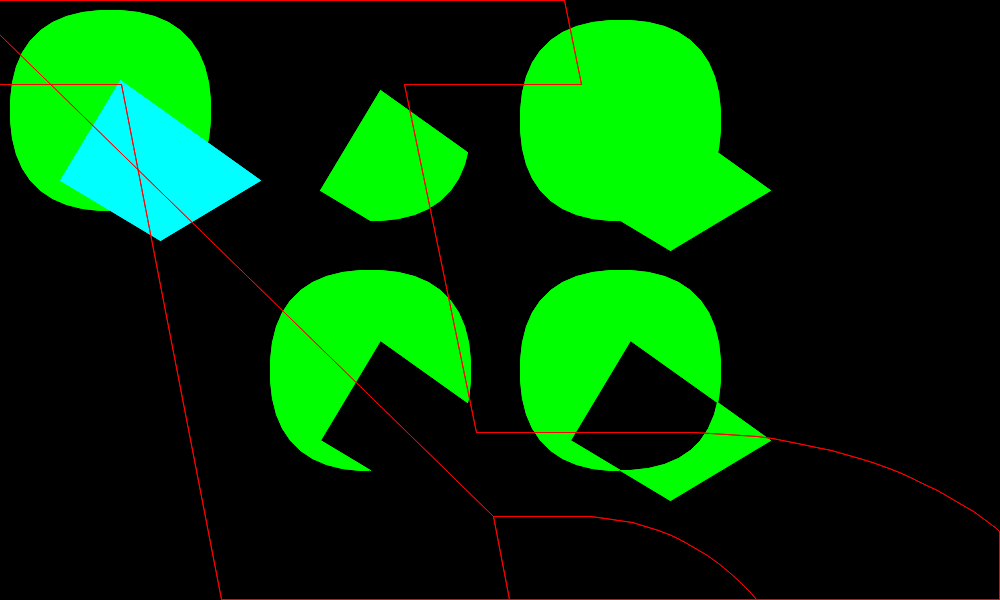
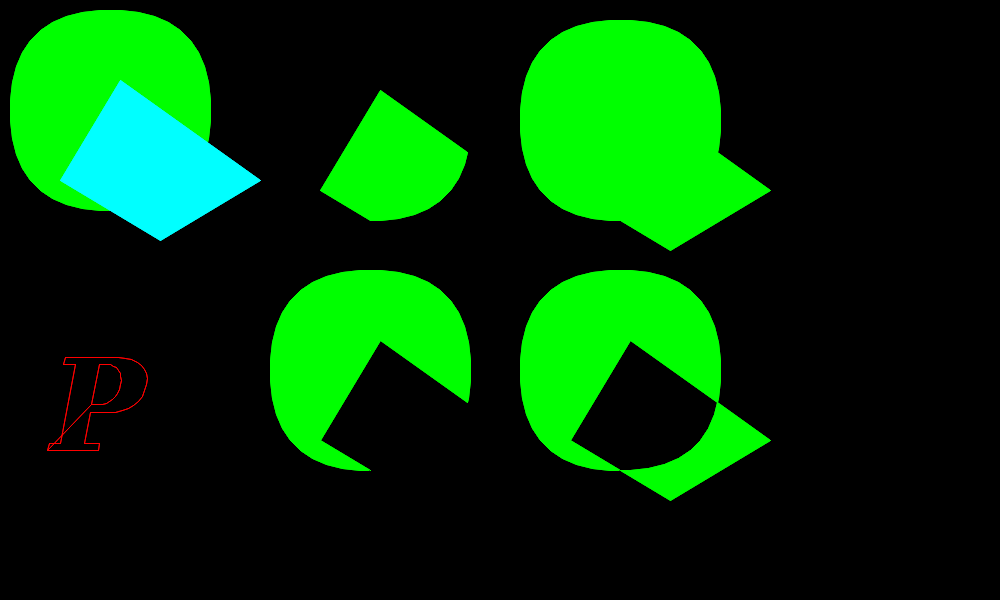
Experiment with character outline

diff --git a/src/Pt-Gfx/Path.cpp b/src/Pt-Gfx/Path.cpp
@@ -231,6 +231,15 @@ static inline void generateChrPoints(std::vector<PointF>& dst, double x, double 
 {
     std::clog << "points/tags = " << points.size() << " ; contours = " << contours.size() << std::endl;
 
+    std::vector<PointF> pointsF(points.size());
+
+    for(size_t i = 0; i < points.size(); ++i) {
+        pointsF[i].set(
+            points[i].x() * 0.015625, // 1/64
+            points[i].y() * 0.015625
+        );
+    }
+
     int contour_starti = 0;
     int contour_endi = 0;
     for ( int i = 0 ; i < (int) contours.size() ; i++ ) {
@@ -240,8 +249,8 @@ static inline void generateChrPoints(std::vector<PointF>& dst, double x, double 
 
         if(!dst.empty()) dst.push_back(Painter::PolygonSeparatorPointF);
         dst.push_back(PointF(
-            points[contour_starti].x(),
-            points[contour_starti].y()
+            pointsF[contour_starti].x(),
+            pointsF[contour_starti].y()
         ));
 
 
@@ -249,12 +258,12 @@ static inline void generateChrPoints(std::vector<PointF>& dst, double x, double 
             int thisi = j%npts + offset;
             int nexti = (j+1)%npts + offset;
             int nextnexti = (j+2)%npts + offset;
-            int x = points[thisi].x();
-            int y = points[thisi].y();
-            int nx = points[nexti].x();
-            int ny = points[nexti].y();
-            int nnx = points[nextnexti].x();
-            int nny = points[nextnexti].y();
+            int x = pointsF[thisi].x();
+            int y = pointsF[thisi].y();
+            int nx = pointsF[nexti].x();
+            int ny = pointsF[nexti].y();
+            int nnx = pointsF[nextnexti].x();
+            int nny = pointsF[nextnexti].y();
             bool this_tagbit1 = (tags[ thisi ] & 1);
             bool next_tagbit1 = (tags[ nexti ] & 1);
             bool nextnext_tagbit1 = (tags[ nextnexti ] & 1);

diff --git a/src/Pt-Gfx/tests/ImagePainterTest2_Draw_Path.cpp b/src/Pt-Gfx/tests/ImagePainterTest2_Draw_Path.cpp
@@ -363,9 +363,9 @@ static void testDrawPathClipping(const char* title, Image& image, Painter& paint
     ip2->setBrush(brush1);
     ip2->fillPolygon(clipPointsF.data(), clipPointsF.size());
 
-    //
-    row = 0;
-    col = 2;
+    // Character outline
+    row = 4;
+    col = 0;
 
     path.clear    ();
     path.beginPath();
@@ -377,14 +377,17 @@ static void testDrawPathClipping(const char* title, Image& image, Painter& paint
     path.setFont( Pt::Gfx::Font(FONT_SPEC_H) );
     path.generatePoints(subjPointsF, 1);
     atrans.push();
+    atrans.translate(50 + 100 * col, 50 + 100 * row);
     atrans.transformPoints(subjPointsF.data(), subjPointsF.size());
     atrans.pop();
 
     ip2->setPen(Color::fromRgb8(255,0,0));
     ip2->setBrush(brush2);
     ip2->drawPolyline(subjPointsF.data(), subjPointsF.size(), true);
-    ++col;
 
+    //ip2->setFont( Pt::Gfx::Font(FONT_SPEC_H) );
+    //ip2->setPen( Color::fromRgb8(0, 255, 255, 255) );
+    //ip2->drawText( PointF(10 + 250 * col, 10 + 250 * row), "P" );
 
     sdlPreviewRGB888Buffer(title, image.data(), image.width(), image.height(), !!ip2);
 }

diff --git a/src/Pt-Gfx/tests/ImagePainterTest2.cpp b/src/Pt-Gfx/tests/ImagePainterTest2.cpp
@@ -154,10 +154,10 @@ using namespace Pt::Gfx;
 
 // Configurations and objects
 #define FONT_DIR    "../src/Pt-Gfx/fonts"
-#define FONT_SPEC_S "DejaVu Serif", 12, Pt::Gfx::Font::BoldItalic, 0
-#define FONT_SPEC_N "DejaVu Serif", 24, Pt::Gfx::Font::BoldItalic, 0
-#define FONT_SPEC_R "DejaVu Serif", 24, Pt::Gfx::Font::BoldItalic, -150
-#define FONT_SPEC_H "DejaVu Serif", 24, Pt::Gfx::Font::BoldItalic, 0
+#define FONT_SPEC_S "DejaVu Serif",  12, Pt::Gfx::Font::BoldItalic, 0
+#define FONT_SPEC_N "DejaVu Serif",  24, Pt::Gfx::Font::BoldItalic, 0
+#define FONT_SPEC_R "DejaVu Serif",  24, Pt::Gfx::Font::BoldItalic, -150
+#define FONT_SPEC_H "DejaVu Serif", 128, Pt::Gfx::Font::BoldItalic, 0
 
 #define TEX_FILE_TRANS_BGR "../etc/images/bleech-200x200-tbgr.png"
 #define TEX_FILE_WHITE_BGR "../etc/images/bleech-200x200-wbgr.png"

diff --git a/src/Pt-Gfx/FreeType2.cpp b/src/Pt-Gfx/FreeType2.cpp
@@ -291,8 +291,8 @@ void FreeType2::pathFromChar(std::vector<Point>& points, std::vector<Pt::uint8_t
     points.resize(face->glyph->outline.n_points);
     for(int i = 0; i < face->glyph->outline.n_points; ++i) {
         points[i].set(
-            face->glyph->outline.points[i].x,
-            face->glyph->outline.points[i].y
+             face->glyph->outline.points[i].x,
+            -face->glyph->outline.points[i].y
         );
     }
 
